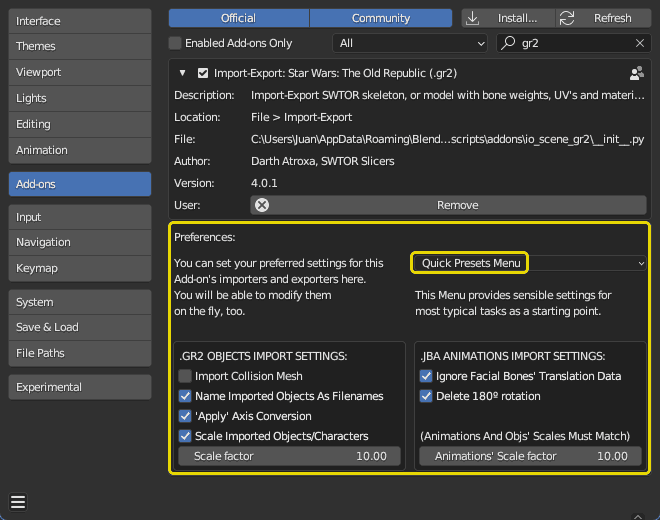
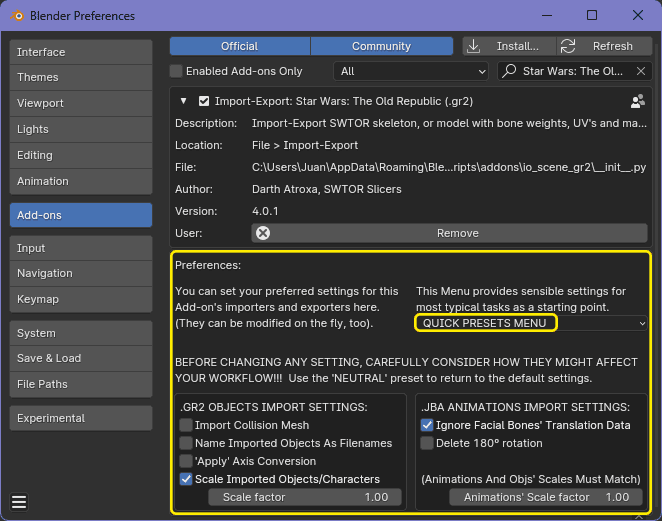
Rewriting the README

diff --git a/README.md b/README.md
@@ -57,6 +57,8 @@ This Add-on comes now with a series of 'quality-of-life' settings that, for cert
 
 All that said, **the Add-on's default settings are perfectly fine** for having everything work as expected (**they match the behavior of previous versions**). Set to those, our other Add-ons (Character Assembler, Area Assembler, ZG SWTOR Tools) won't notice any difference.
 
+![alt text](images/readme_gr2_addon_020.png)
+
 ### .gr2 objects/armatures/characters import settings:
 * **Import Collision Mesh**: old option that used to be only available in the importer's file browser. 
 * **Name Imported Objects as Filenames**: typically, the imported mesh's (or main mesh's) "art name" matches the filename, but not always, which leads to issues if using the former. Ticking it solves an failure when assembling Nautolan Player Characters.
@@ -70,11 +72,41 @@ All that said, **the Add-on's default settings are perfectly fine** for having e
 * **Delete 180º Rotation**: deletes the 'bip01' bone's keyframes and changes its rotation so that animations don't turn the characters away from us.
 * **Animation Scale factor**:**The .jba animation importer's scale factor is synced to the .gr2 importer's one**, for consistency, but it can be modified manually. 
 
-### Presets menu system. Its current options are:
+### Preset settings menu:
+
+Meant as sensible starting points. The currently available presets are:
 
 * **NEUTRAL: resets the Add-on to the default settings, matching its older versions**.
 * **PORTING: this is a work in progress**. So far, we are choosing to keep the original assets' scale but convert the axis order from SWTOR's "Y is up" to Blender's "Z is up" (hoping that the usual exporters to FBX and such will like it better). **We need your feedback** here, and it wouldn't be a problem if you see that we need specific presets for different target apps (Unity-related, Unreal Engine, apps with their own engines, etc.): we can add and name as many porting presets as needed.
-* **BLENDER**: "Blender-friendliest", so to speak. This preset is meant for projects that are either going to stay inside Blender or will move to other 3D apps that are just as art-focused. Objects are scaled to equivalent real life-like sizes, axis order is converted to Blender's own, etc., just as if they would have been created in Blender through the usual means, and easy to mix and match with assets from other provenances. That said, if we happen to have a library of imported SWTOR assets already, we would need to decide whether to use these settings for new imports, keep to the old ones for consistency, or update previous assets to matching characteristics (vía Blender's Apply operators). **Testing before going all in is extremely recommended**.
+* **BLENDER**: "Blender-friendliest", so to speak. This preset is meant for projects that are either going to stay inside Blender or will move to other 3D apps that are just as art-focused. Objects are scaled to equivalent real life-like sizes, axis order is converted to Blender's own, etc., just as if they would have been created in Blender through the usual means, and are easy to mix and match with assets from other provenances. That said, if we happen to have a library of imported SWTOR assets already, we would need to decide whether to use these settings for new imports, keep to the old ones for consistency, or update previous assets to matching characteristics (vía Blender's Apply operators). **Testing before going all in is extremely recommended**.
+
+  ![alt text](images/readme_gr2_addon_030.png)
+
+## Paper-trailing.
+
+Given the potential impact of some of those settings, It would be good to include them in the affected objects somehow, in a manner similar to image metadata. So, we are adding custom properties to objects. It's something very easy to write and read. So far, we are having:
+* `mesh_axis_conversion = True or False`.
+* `mesh_scale = decimal number (float)`.
+
+They appear in the `3D Viewport > Sidebar > Item Tab > Properties Panel` ad in the `Properties Editor > Object Tab > Custom Properties panel`.
+
+![alt text](images/readme_gr2_addon_050.png)
+
+## Using other Add-ons that depend on this one.
+
+…Such as the SWTOR Area Assembler and Character Assembler, and the ZG SWTOR Tools. With the settings at their default values, none of them should feel any difference. At any other values:
+
+* **SWTOR Character Assembler Add-on**: it should assemble the characters with all objects behaving as per those settings without producing any troubles when posed or animated.
+* **SWTOR Area Assembler Add-on**: here the situation is more complicated, as having this Add-on reacting correctly to these settings is going to mean a full revision of its workings. For the time being, it'll accept the scaling factor (it had one of its own already, so, what it'll do is just copy the .gr2 Add-on's one), but not the axis order conversion because it kinda didn't need it: the way we catered for that was so facepalmy, it happened anyway.
+* **ZG SWTOR Tools**: here the situation is a bit more nuanced:
+  * The Character and Area Assemblers behave just as their standalone versions.
+  * It's the other tools where things get more complex. There are some that used some eyeballed, fixed values (the thresholds in the Merge Double Vertices tools, the distances and thicknesses in some of the Add Modifiers' Modifier settings in Displace, Solidify, and Shrinkwrap) which ought to be multiplied by the scale factor the object was imported with.
+
+    When an object has a `mesh_scale` custom property, those tools will use it. The issue is what to do when it doesn't have any. It could default to 1.0, or it could use whatever the .gr2 add-on's preferences are set to at that moment. Quite probably we'll just make those choices explicit via checkboxes.
+
+    To facilitate awareness of the session's conditions, the ZG SWTOR Tools' Status Panel has now a summary of the .gr2 Add-on settings, plus a button to quickly open its Preferences panel.
+
+    ![alt text](images/readme_gr2_addon_040.png)
 
 ## About the old, "Legacy" version of this add-on.
 
